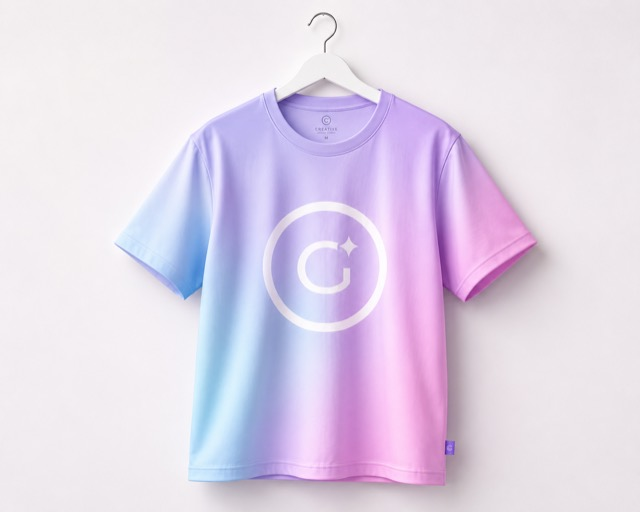
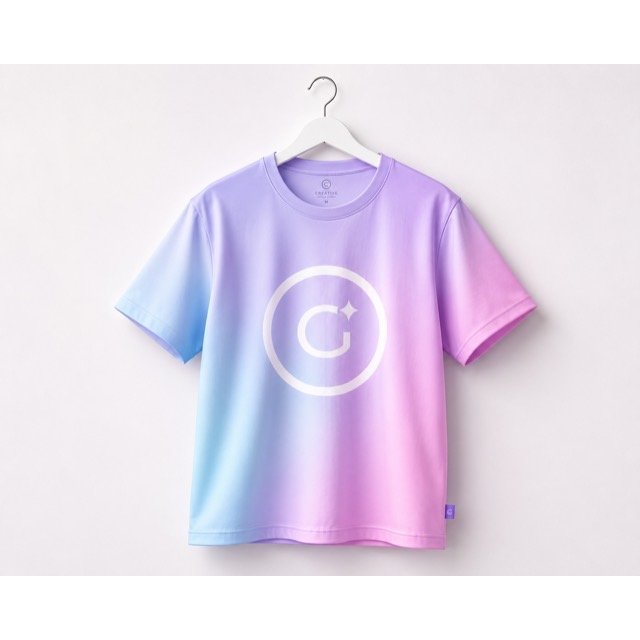
Square catalog card images

diff --git a/public/css/styles.css b/public/css/styles.css
@@ -9037,7 +9037,7 @@ body.company-page .catalog-redesign-card {
   grid-template-columns: 120px minmax(0, 1fr) 50px;
   align-items: center;
   gap: 24px;
-  padding: 24px 30px 24px 28px;
+  padding: 17px 30px 17px 28px;
   overflow: hidden;
   border: 0 !important;
   border-radius: 22px;
@@ -9059,10 +9059,13 @@ body.company-page .catalog-redesign-photo {
   position: relative;
   display: grid;
   width: 120px;
-  height: 92px;
+  height: 120px;
+  aspect-ratio: 1;
   place-items: center;
+  overflow: hidden;
   border-radius: 18px;
-  background: rgba(255, 255, 255, 0.42);
+  background: #ffffff;
+  box-shadow: inset 0 0 0 1px rgba(17, 17, 17, 0.03);
   filter: saturate(1.06);
 }
 
@@ -9417,11 +9420,13 @@ body.company-page .catalog-redesign .service-search-empty {
   body.company-page .catalog-redesign-card {
     grid-template-columns: 104px minmax(0, 1fr) 46px;
     gap: 20px;
+    padding-top: 17px;
+    padding-bottom: 17px;
   }
 
   body.company-page .catalog-redesign-photo {
     width: 104px;
-    height: 82px;
+    height: 104px;
   }
 
 }
@@ -9462,7 +9467,7 @@ body.company-page .catalog-redesign .service-search-empty {
 
   body.company-page .catalog-redesign-photo {
     width: 88px;
-    height: 68px;
+    height: 88px;
   }
 
   body.company-page .catalog-redesign-icon {
@@ -9569,7 +9574,7 @@ body.company-page .catalog-redesign .service-search-empty {
   grid-template-columns: clamp(104px, 6.4vw, 122px) minmax(0, 1fr) 46px;
   align-items: center;
   gap: clamp(16px, 1.35vw, 24px);
-  padding: clamp(18px, 1.45vw, 24px) clamp(20px, 1.55vw, 28px);
+  padding: clamp(14px, 1.05vw, 18px) clamp(20px, 1.55vw, 28px);
   border-radius: 20px;
   background: rgba(255, 255, 255, 0.82);
   box-shadow: 0 18px 44px rgba(46, 37, 70, 0.055);
@@ -9589,10 +9594,13 @@ body.company-page .catalog-redesign .service-search-empty {
   position: relative;
   display: grid;
   width: clamp(104px, 6.4vw, 122px);
-  height: clamp(72px, 4.6vw, 88px);
+  height: clamp(104px, 6.4vw, 122px);
+  aspect-ratio: 1;
   place-items: center;
+  overflow: hidden;
   border-radius: 18px;
-  background: rgba(255, 255, 255, 0.44);
+  background: #ffffff;
+  box-shadow: inset 0 0 0 1px rgba(17, 17, 17, 0.03);
 }
 
 .legacy-theme .donor-menu[data-mode="catalog"] .donor-catalog-card-photo::after {
